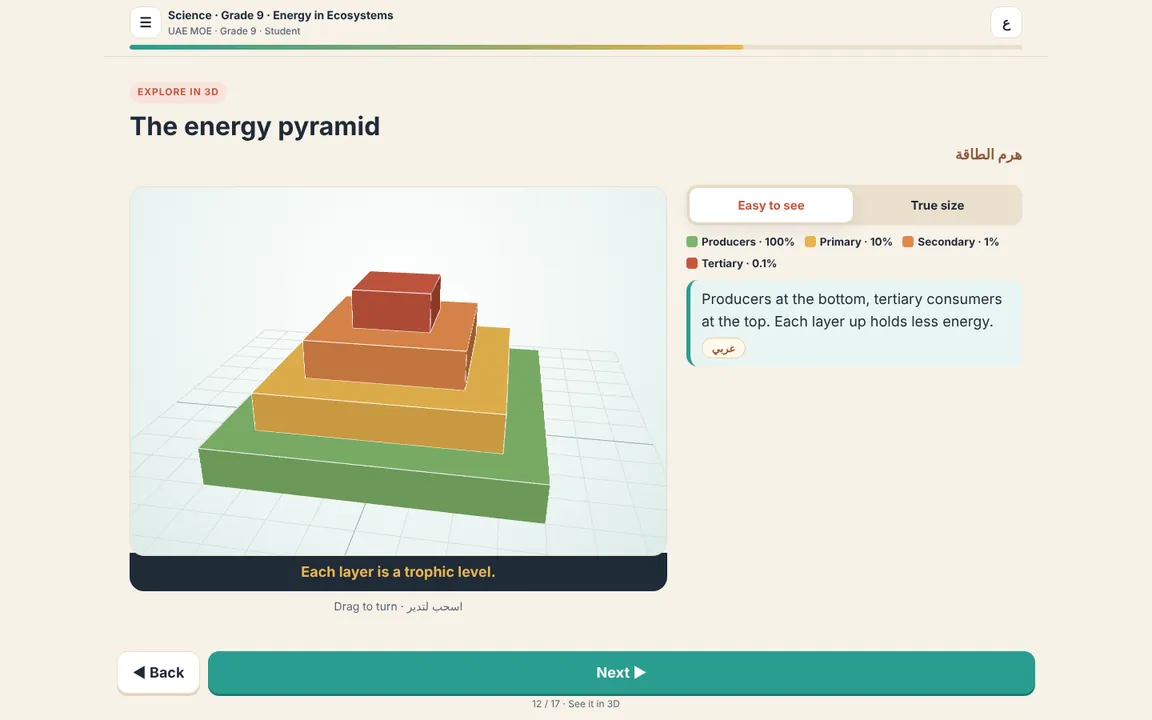
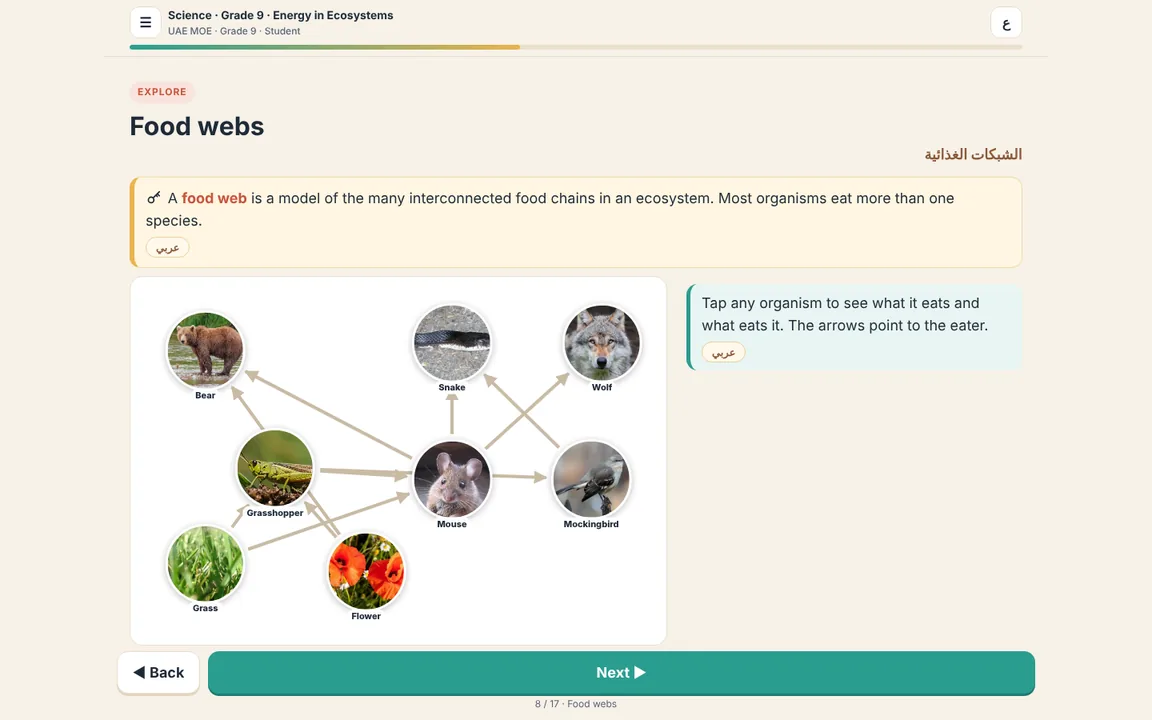
Byline under Eureka, food web laptop screen, English-only About
Claude-Session: https://claude.ai/code/session_01PBe3ix7Gj38wMfwxJYvKRy

diff --git a/index.html b/index.html
@@ -223,15 +223,17 @@ h2 em{font-style:italic;color:var(--teal)}
 .acopy blockquote{margin:0}
 .acopy blockquote p{margin:0;font-family:var(--display);font-weight:400;font-size:clamp(28px,3.6vw,42px);line-height:1.15;letter-spacing:-.01em;text-wrap:balance}
 .acopy blockquote em{color:var(--teal)}
-.acopy .aq-ar{font-family:var(--body);font-size:clamp(17px,1.8vw,20px);color:var(--teal);margin-top:12px;text-align:right}
+
 .aname{display:flex;flex-direction:column;gap:3px;padding-left:16px;border-left:2px solid var(--teal)}
 .aname b{font-family:var(--display);font-weight:400;font-size:26px}
 .aname span{font-size:14.5px;color:var(--muted)}
 .aname i{font-style:normal;white-space:nowrap}
 .abadges{list-style:none;margin:0;padding:0;display:flex;flex-wrap:wrap;gap:8px}
 .abadges li{font-size:13.5px;padding:8px 14px;border-radius:999px;border:1px solid var(--line-strong);background:var(--glass);line-height:1.3}
-.abadges li span{display:block;font-size:12px;color:var(--muted)}
+
 @media (max-width:820px){.aboutgrid{grid-template-columns:1fr}.aphoto{max-width:300px}.acopy{align-items:stretch}.acopy .btn{align-self:flex-start}}
+.bstack{display:flex;flex-direction:column;line-height:1;gap:4px}
+.byline{font-family:var(--body);font-size:11.5px;font-weight:400;letter-spacing:.06em;color:var(--muted);white-space:nowrap}
 /* downloads + stats */
 .dl{display:grid;grid-template-columns:1fr 1.1fr;gap:clamp(32px,6vw,72px);align-items:center}
 .dl-copy{display:flex;flex-direction:column;gap:14px}
@@ -316,7 +318,7 @@ footer{max-width:var(--maxw);margin:clamp(64px,9vw,110px) auto 0;padding-block:4
 
 <header class="hero gut">
   <nav class="nav">
[2 lines of base64/hex data omitted]
     <div class="nav-links"><a href="#lessons">Lessons</a><a href="#try">Try it</a><a href="#why">How it works</a><a href="https://mustafa0895.github.io/" style="color:var(--teal)">Mr. Mustafa ↗</a></div>
     <a class="btn btn-outline" href="#lessons">ابدأ · Start</a>
   </nav>
@@ -409,7 +411,7 @@ footer{max-width:var(--maxw);margin:clamp(64px,9vw,110px) auto 0;padding-block:4
   <div class="head"><span class="eyebrow" data-reveal>Any screen</span><h2 id="devH" data-reveal style="--rd:80ms">One lesson. <em>Every screen.</em></h2><p class="sub-ar" dir="rtl" lang="ar" data-reveal style="--rd:140ms">درس واحد، على أي شاشة</p></div>
   <div class="devwrap" data-reveal style="--rd:180ms">
     <div class="devstage"><a class="laptop" href="g9-science-l4.html" aria-label="Open Grade 9 Science, Lesson 4: Energy in Ecosystems">
-      <span class="lscreen"><img src="try/dev-laptop.webp" alt="The 3D energy pyramid screen from Grade 9 Science, Lesson 4" width="1152" height="720" loading="lazy" decoding="async"></span>
+      <span class="lscreen"><img src="try/dev-laptop.webp?v=2" alt="The food web screen from Grade 9 Science, Lesson 4, with real photos of each organism" width="1152" height="720" loading="lazy" decoding="async"></span>
       <span class="lbase" aria-hidden="true"></span>
     </a>
     <a class="phone" href="g9-science-l5.html" aria-label="Open Grade 9 Science, Lesson 5: Water and Carbon Cycles">
@@ -436,7 +438,6 @@ footer{max-width:var(--maxw);margin:clamp(64px,9vw,110px) auto 0;padding-block:4
       <span class="eyebrow" data-reveal>Behind every lesson</span>
       <blockquote data-reveal style="--rd:80ms">
         <p id="aboutH">“Every student has a <em>Eureka</em> moment. My job is to build the path to it.”</p>
-        <p class="aq-ar" dir="rtl" lang="ar">«كل طالب عنده لحظة يوريكا، وشغلي إني أبني له الطريق ليها.»</p>
       </blockquote>
       <div class="aname" data-reveal style="--rd:140ms">
         <b>Mr. Mustafa</b>
@@ -444,9 +445,9 @@ footer{max-width:var(--maxw);margin:clamp(64px,9vw,110px) auto 0;padding-block:4
         <span><i>Web Developer</i> · <i>AI-Assisted Developer</i> · <i>Abu Dhabi</i></span>
       </div>
       <ul class="abadges" data-reveal style="--rd:200ms">
-        <li>Built on the UAE curriculum<span dir="rtl" lang="ar">مبني على منهج الإمارات</span></li>
-        <li>English with Arabic<span dir="rtl" lang="ar">إنجليزي وعربي</span></li>
-        <li>Made in Abu Dhabi<span dir="rtl" lang="ar">من أبوظبي</span></li>
+        <li>Built on the UAE curriculum</li>
+        <li>English with Arabic</li>
+        <li>Made in Abu Dhabi</li>
       </ul>
       <a class="btn btn-outline" href="https://mustafa0895.github.io/" data-reveal style="--rd:260ms">Meet Mr. Mustafa <svg class="aic" viewBox="0 0 24 24" aria-hidden="true"><path d="M7 17 17 7"/><path d="M8 7h9v9"/></svg></a>
     </div>
